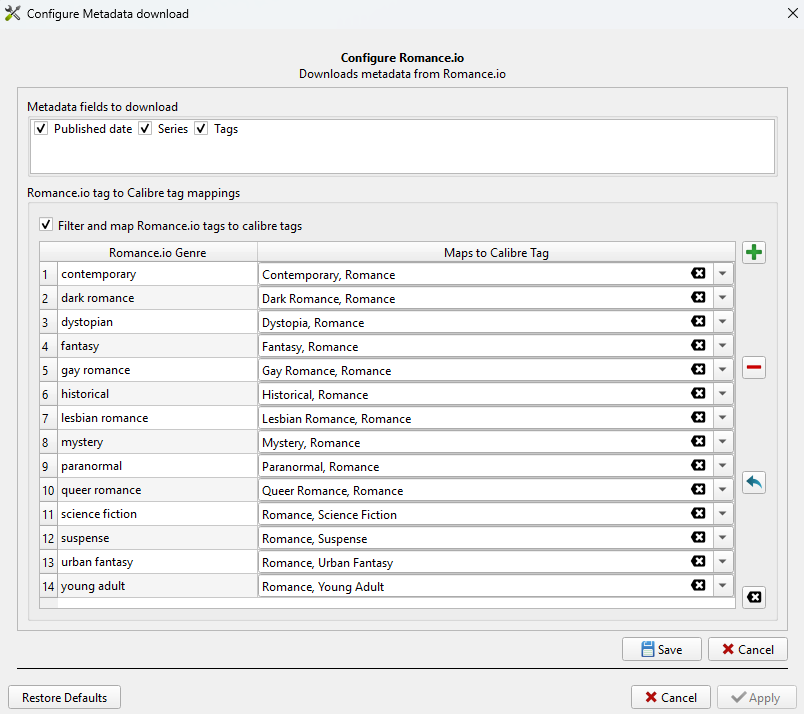
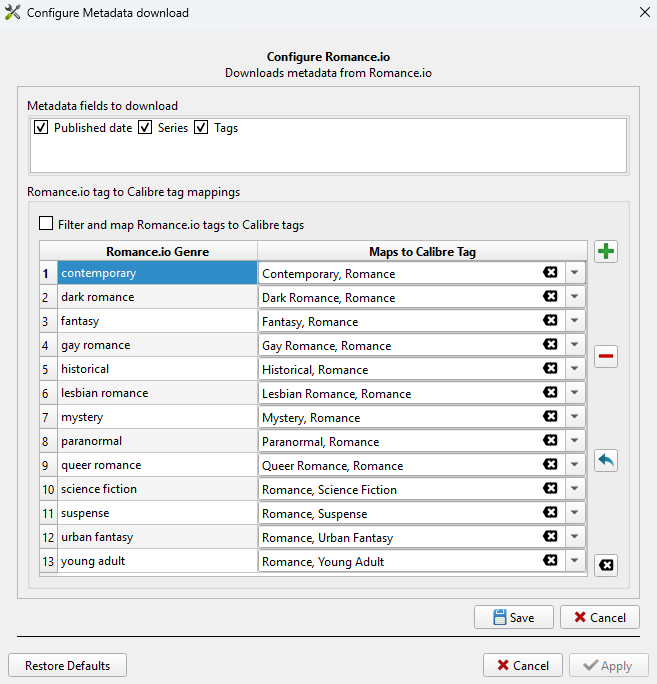
Clarify and clean up tag mapping config option

diff --git a/romanceio/config.py b/romanceio/config.py
@@ -136,7 +136,7 @@ class GenreTagMappingsTableWidget(QTableWidget):
 
     def create_tags_edit(self, value):
         tags_edit = EditWithComplete(self)
-        tags_edit.set_add_separator(False)
+        tags_edit.set_add_separator(True)
         tags_edit.update_items_cache(self.tags_values)
         tags_edit.setText(value)
         return tags_edit
@@ -152,9 +152,12 @@ class GenreTagMappingsTableWidget(QTableWidget):
             tags_text = unicode(self.cellWidget(row, 1).text()).strip()
             tag_values = tags_text.split(",")
             tags_list = []
+            seen = set()
             for tag in tag_values:
-                if len(tag.strip()) > 0:
-                    tags_list.append(tag.strip())
+                tag = tag.strip()
+                if tag and tag.lower() not in seen:
+                    seen.add(tag.lower())
+                    tags_list.append(tag)
             tag_mappings[genre] = tags_list
         return tag_mappings
 
@@ -184,11 +187,11 @@ class ConfigWidget(DefaultConfigWidget):
         genre_group_box.setLayout(genre_group_box_layout)
 
         self.map_genres_checkbox = QCheckBox(
-            _("Filter and map Romance.io tags to calibre tags"), self  # type: ignore # pylint: disable=undefined-variable
+            _("Filter and map Romance.io tags to Calibre tags"), self  # type: ignore # pylint: disable=undefined-variable
         )
         self.map_genres_checkbox.setToolTip(
             _(  # type: ignore # pylint: disable=undefined-variable
-                "When checked, only specific calibre tags will be used as per below.\n"
+                "When checked, only specific Calibre tags will be used as per below.\n"
                 "When unchecked, all Romance.io tags will be added as Calibre tags."
             )
         )

diff --git a/romanceio/parse_html.py b/romanceio/parse_html.py
@@ -235,15 +235,15 @@ def parse_tags(root: HtmlElement, log_func: Optional[Callable] = None) -> List[s
 def convert_genres_to_calibre_tags(
     genre_tags: List[str], map_genres: bool, calibre_tag_map: Dict[str, List[str]]
 ) -> List[str]:
-    """Convert Romance.io genre tags to calibre tags using configured mapping.
+    """Convert Romance.io genre tags to Calibre tags using configured mapping.
 
     Args:
         genre_tags: List of raw Romance.io tag strings
         map_genres: If False, returns genre_tags unchanged
-        calibre_tag_map: Dictionary mapping lowercase genre tags to list of calibre tags
+        calibre_tag_map: Dictionary mapping lowercase genre tags to list of Calibre tags
 
     Returns:
-        List of calibre tag strings (or original tags if mapping disabled)
+        List of Calibre tag strings (or original tags if mapping disabled)
     """
     if not map_genres:
         # User has disabled Romance.io tag filtering/mapping - all genres become tags

diff --git a/README.md b/README.md
@@ -40,9 +40,20 @@ Completing the metadata download will populate fields from [Romance.io](https://
 **Preferences > Metadata download > Romance.io > Configure selected source**
 
 - **Metadata fields to download** - choose which fields you want to populate from [Romance.io](https://romance.io)
-- **Romance.io tag to Calibre tag mappings** - map [Romance.io](https://romance.io) tags to Calibre tags. Tags not in the mapping are not imported into the Calibre Tags field.
+- **Romance.io tag to Calibre tag mappings** - controls how Romance.io tags are imported into Calibre's Tags field. Use the green "+" and red "-" buttons to add or remove mappings. Create one row for each Romance.io tag you want to map to one or more Calibre tags. The text you enter for the Romance.io tag must match how the tag looks on the website exactly. Any Romance.io tags that are not mapped will be ignored.
 
-![Screenshot of the Calibre "Edit metadata" panel after searching Romance.io for metadata](images/Configure%20Metadata%20download.png)
+  ![Screenshot of the Configure Metadata download dialog with the "Filter and map Romance.io tags to calibre tags" checkbox checked](images/Configure%20Metadata%20download.png)
+
+  To get all Romance.io tags as individual Calibre tags, uncheck **"Filter and map Romance.io tags to Calibre tags"**:
+
+  - **Checked (default):** Only tags listed in the mapping table are imported. Each Romance.io tag maps to one or more Calibre tags of your choosing. Tags not in the table are dropped.
+  - **Unchecked:** All Romance.io tags are imported as individual Calibre tags, with no filtering or renaming. Use this if you want to import every Romance.io tag for each book.
+
+  ![Configure Metadata download dialog showing the "Filter and map Romance.io tags to Calibre tags" checkbox unchecked](images/Uncheck%20map%20tags.png)
+
+  With the box unchecked, the metadata download will import all tags from Romance.io as Calibre tags:
+
+  ![Metadata download result showing all Romance.io tags as individual Calibre tags](images/Uncheck%20map%20tags%20result.png)
 
 ## Romance.io Fields - Custom Columns Plugin for Calibre
 

diff --git a/romanceio/README.md b/romanceio/README.md
@@ -18,7 +18,20 @@ The stored `romanceio` identifier is the key that the companion [Romance.io Fiel
 
 **Preferences > Metadata download > Romance.io > Configure selected source**
 
-- **Romance.io tag to Calibre tag mappings** - Map Romance.io genre tag slugs to Calibre tag values using the configurable table. Tags not present in the mapping are not imported.
+- **Romance.io tag to Calibre tag mappings** - Controls how Romance.io tags are imported into Calibre's Tags field. Use the green "+" and red "-" buttons to add or remove mappings. Create one row for each Romance.io tag you want to map to one or more Calibre tags. The text you enter for the Romance.io tag must match how the tag looks on the website exactly. Any Romance.io tags that are not mapped will be ignored.
+
+  ![Screenshot of the Configure Metadata download dialog with the "Filter and map Romance.io tags to calibre tags" checkbox checked](../images/Configure%20Metadata%20download.png)
+
+  To get all tropes and genres as separate Calibre tags, uncheck **"Filter and map Romance.io tags to Calibre tags"**:
+
+  - **Checked (default):** Only tags listed in the mapping table are imported. Each Romance.io tag maps to one or more Calibre tags of your choosing. Tags not in the table are dropped.
+  - **Unchecked:** All Romance.io tags are imported as individual Calibre tags, with no filtering or renaming. Use this if you want to import every Romance.io tag for each book.
+
+  ![Configure Metadata download dialog showing the "Filter and map Romance.io tags to Calibre tags" checkbox unchecked](../images/Uncheck%20map%20tags.png)
+
+  With the box unchecked, the metadata download will import all tags from Romance.io as Calibre tags:
+
+  ![Metadata download result showing all Romance.io tags as individual Calibre tags](../images/Uncheck%20map%20tags%20result.png)
 
 ## Building
 
